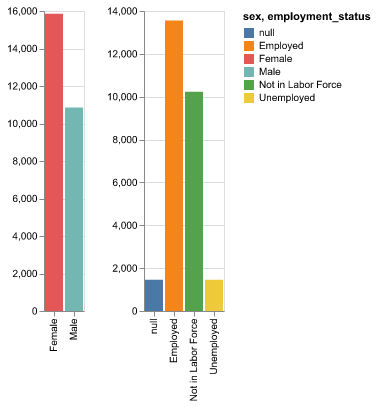
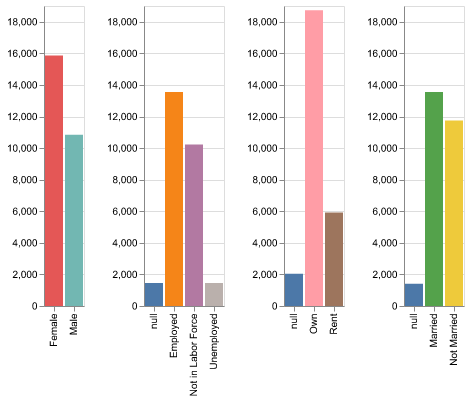
Explore personal features, add todo for ratings

diff --git a/01 Driven Data - Flu Shot/src/flu_shot_data.py b/01 Driven Data - Flu Shot/src/flu_shot_data.py
@@ -185,6 +185,8 @@ class FluShotData:
         :return: bar chart saved as png file
         """
 
+        # TODO : Diverging Stacked Bar Chart for replies
+
         # Ratings ------------------------
         df1 = df['h1n1_concern_desc'].value_counts().rename_axis('rating').reset_index(name='counts')
         df1['feature'] = '4 concern'
@@ -286,21 +288,30 @@ class FluShotData:
         # Chart for personal features --------------------
         bar_sex = alt.Chart(df).mark_bar().encode(
             x=alt.X('sex:O').title(''),
-            y=alt.Y('count(sex):Q').title(''),
-            color='sex:N'
+            y=alt.Y('count(sex):Q', scale=alt.Scale(domain=[0, 19000])).title(''),
+            color = alt.Color('sex:N')
         )
 
         # Chart for personal features --------------------
         bar_empl_status = alt.Chart(df).mark_bar().encode(
             x=alt.X('employment_status:O').title(''),
-            y=alt.Y('count(employment_status):Q').title(''),
-            color='employment_status:N'
+            y=alt.Y('count(employment_status):Q', scale=alt.Scale(domain=[0, 19000])).title(''),
+            color=alt.Color('employment_status:N')
         )
 
-        # features_personal =['employment_status', 'rent_or_own', 'marital_status', 'sex']
+        bar_rent_or_own = alt.Chart(df).mark_bar().encode(
+            x=alt.X('rent_or_own:O').title(''),
+            y=alt.Y('count(rent_or_own):Q', scale=alt.Scale(domain=[0, 19000])).title(''),
+            color=alt.Color('rent_or_own:N')
+        )
 
+        bar_marital_status = alt.Chart(df).mark_bar().encode(
+            x=alt.X('marital_status:O').title(''),
+            y=alt.Y('count(marital_status):Q', scale=alt.Scale(domain=[0, 19000])).title(''),
+            color=alt.Color('marital_status:N', legend=None)
+        )
 
-        chart = bar_sex | bar_empl_status
+        chart = bar_sex | bar_empl_status | bar_rent_or_own | bar_marital_status
         chart.save(FILE_BARCHART_FEATURES_PERSONAL)
 
         # Population pyramid --------------------
